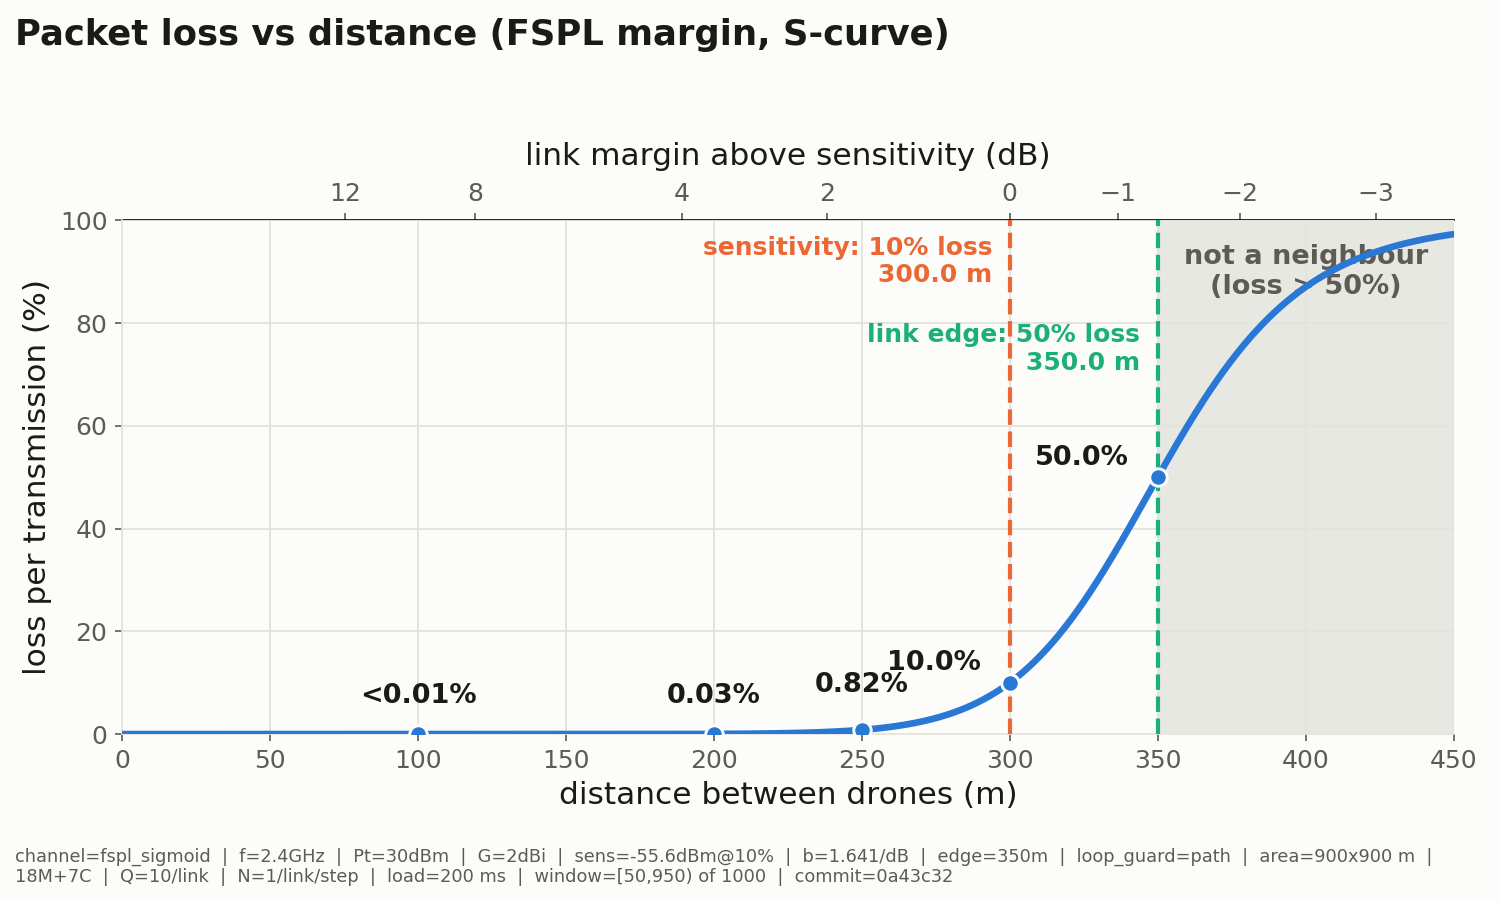
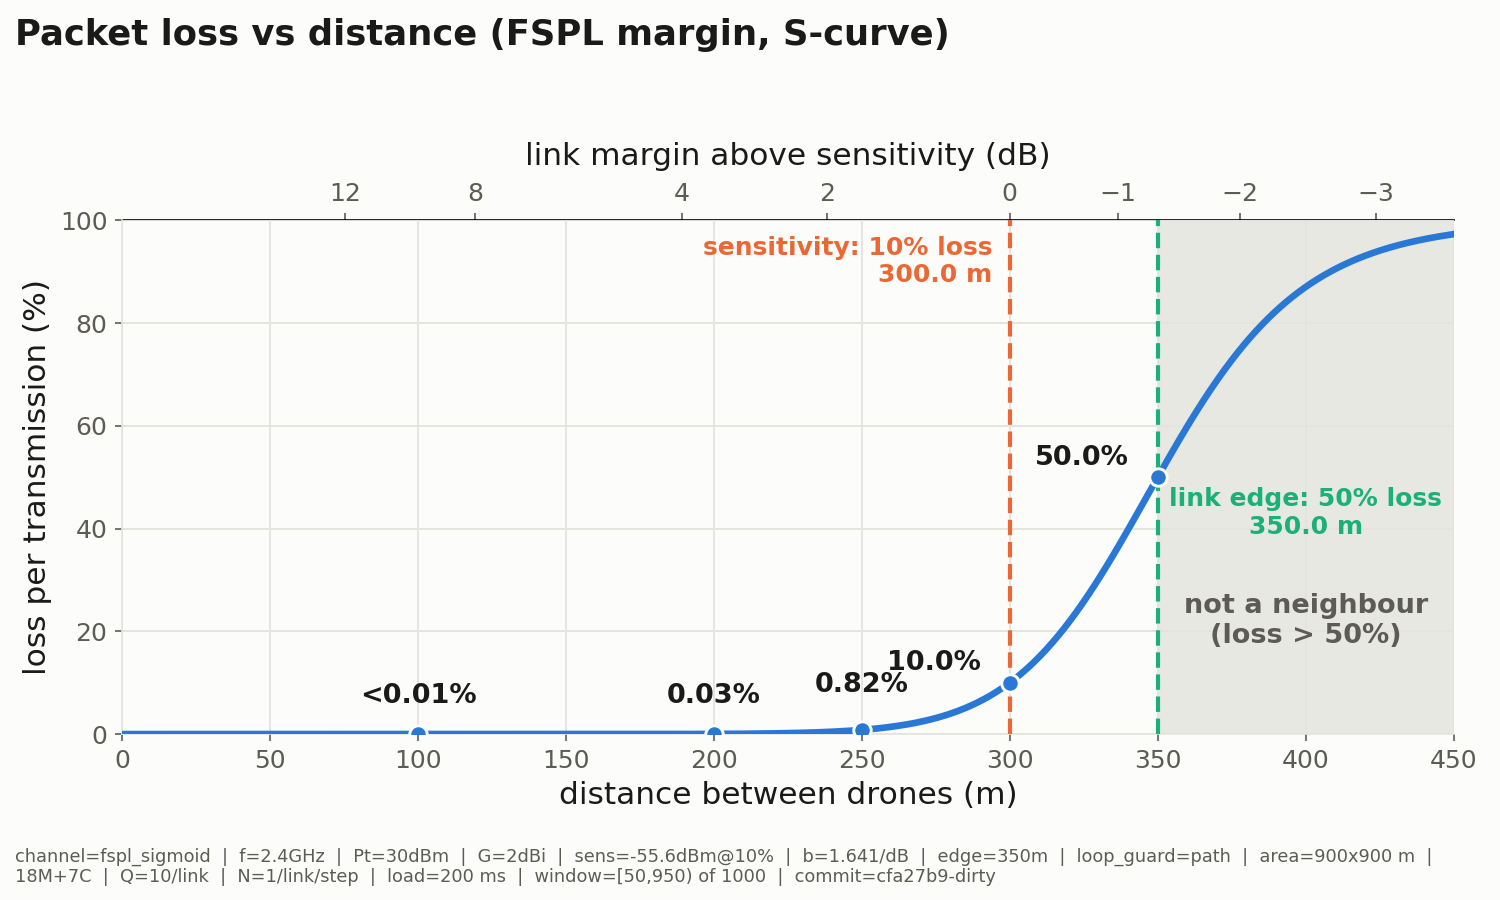
rate: a full link is chosen only when every link is full; figure fixes
The bug: rate scored each option as delivery_rate * (1 - queue_full), so a
FULL link and a link whose measured delivery rate happens to be 0 both scored
zero, and the channel-loss tie-break could then hand the packet to the full
link — which drops it on enqueue. Ranking is now (queue_full, -delivery_rate,
channel_loss): queue room is its own key and comes first, so a full link is
taken only when there is nothing else, and the old order applies within each
group. A test pins it, and the ranking it replaces fails that test.

Figures:
- 1b_learning_curve.png drew all three init-seed BCE lines in one colour,
  which made the panel useless. One hue per seed, from the SEED_COLORS the
  other figure already used.
- 1b_learning_curve_seeds.png hid kept-model stars: seeds 0 and 1 both saved
  at run 30 at nearly the same loss, so one star covered the other. Each
  seed's stars are nudged sideways by a fixed share of the evaluation
  spacing; the lines are not moved, and the legend says so.
- ploss_curve.png had the 300 m marker line running through the link-edge
  label and the curve running through it at the right-hand edge. The two
  marker labels now sit where nothing crosses them: the sensitivity label
  above its own line, the link-edge label inside the grey band above "not a
  neighbour", which moved down to the clear part of the band.

A3 (scripts/example_layout.py) is NOT done: no script was attached to the
[…]

diff --git a/rl_sim/scripts/plot_1b.py b/rl_sim/scripts/plot_1b.py
@@ -242,7 +242,10 @@ def plot_learning_curve(log: Dict[str, Any], path: str) -> None:
     for seed in sorted(train):
         runs = [index for index, _, bce in train[seed] if bce is not None]
         values = [bce for _, _, bce in train[seed] if bce is not None]
-        bottom.plot(runs, values, color=RL_COLOR, linewidth=1.2, alpha=0.9,
+        # One hue per seed: drawn in a single colour these three lines were
+        # indistinguishable, which is the opposite of the panel's point.
+        bottom.plot(runs, values, color=SEED_COLORS.get(seed, RL_COLOR),
+                    linewidth=1.2, alpha=0.9,
                     label=f"init seed {seed}" if len(seeds) > 1 else None)
     bottom.set_xlabel("Training runs", color=TEXT_SECONDARY, fontsize=11)
     bottom.set_ylabel("Training loss (BCE)", color=TEXT_SECONDARY, fontsize=11)
@@ -387,13 +390,20 @@ def plot_learning_curve_seeds(log: Dict[str, Any],
             if not saved:
                 continue
             index = {run: position for position, run in enumerate(runs)}
-            ax.scatter([r for r in saved], [means[index[r]] for r in saved],
+            # Seeds often save at the SAME evaluation — two of them did at
+            # run 30 — and at nearly the same loss, so a star drawn exactly
+            # on the point hides the one beneath it. Each seed's stars are
+            # nudged sideways by a fixed share of the evaluation spacing, so
+            # every one stays visible. The lines themselves are not moved.
+            offset = (seeds.index(seed) - (len(seeds) - 1) / 2.0) * 1.8
+            ax.scatter([r + offset for r in saved],
+                       [means[index[r]] for r in saved],
                        marker="*", s=150, color=color, zorder=5,
                        edgecolors=SURFACE, linewidths=0.6)
             # The last save is the model actually kept.
             final = saved[-1]
-            ax.scatter([final], [means[index[final]]], marker="*", s=420,
-                       color=color, zorder=6, edgecolors=SURFACE,
+            ax.scatter([final + offset], [means[index[final]]], marker="*",
+                       s=420, color=color, zorder=6, edgecolors=SURFACE,
                        linewidths=1.0)
 
         if name == "validation":
@@ -423,7 +433,8 @@ def plot_learning_curve_seeds(log: Dict[str, Any],
                    loc="upper left", ncol=len(seeds),
                    bbox_to_anchor=(0.0, 0.80))
     axes[0].annotate(
-        "★ a new best model was saved;  the large ★ is the model kept",
+        "★ a new best model was saved;  the large ★ is the model kept"
+        "  (nudged sideways so none hides another)",
         (0.005, 0.66), xycoords="axes fraction", color=TEXT_SECONDARY,
         fontsize=8.5,
     )

diff --git a/rl_sim/scripts/plot_ploss.py b/rl_sim/scripts/plot_ploss.py
@@ -134,27 +134,31 @@ def plot(out_path: str, stamp: bool = True) -> str:
 
     # Past the edge there is no link, so that part of the curve is never used.
     ax.axvspan(edge, X_MAX_M, color=GRID_COLOR, alpha=0.8, zorder=1)
-    # High in the shaded band, where the curve has not reached yet: at
-    # y = 50 the label would sit on the curve and on the 350 m marker.
+    # LOW in the shaded band. The curve climbs through this band to 84% by
+    # 450 m, so the top of it is where the curve is; underneath is clear, and
+    # the top is now wanted for the link-edge label.
     ax.annotate(f"not a neighbour\n(loss > {config.LINK_MAX_LOSS:.0%})",
-                ((edge + X_MAX_M) / 2.0, 90.0), ha="center", va="center",
+                ((edge + X_MAX_M) / 2.0, 22.0), ha="center", va="center",
                 color=TEXT_SECONDARY, fontsize=13, fontweight="bold",
                 zorder=2)
 
     ax.plot(distances, losses, color=CURVE_COLOR, linewidth=3.2, zorder=5)
 
-    # Stacked, not side by side: the two marks are only 50 m apart now, so
-    # labels on one line would print over each other.
-    for dist, label, colour, top in (
+    # Back to back along the top, each on its OWN side of its marker: the two
+    # marks are only 50 m apart, so stacking them put the 300 m line straight
+    # through the lower label. Nothing crosses the top strip on either side —
+    # left of 300 m the curve is still on the floor, and right of 350 m it
+    # has not climbed past 84%.
+    band_middle = (edge + X_MAX_M) / 2.0
+    for dist, label, colour, at, align in (
         (sensitivity, f"sensitivity: {config.SENS_LOSS:.0%} loss",
-         SENS_COLOR, 97.0),
+         SENS_COLOR, (sensitivity - 6.0, 97.0), "right"),
         (edge, f"link edge: {config.LINK_MAX_LOSS:.0%} loss",
-         EDGE_COLOR, 80.0),
+         EDGE_COLOR, (band_middle, 48.0), "center"),
     ):
         ax.axvline(dist, color=colour, linestyle="--", linewidth=2.0, zorder=4)
-        ax.annotate(f"{label}\n{dist:.1f} m", (dist - 6, top), ha="right",
-                    va="top", color=colour, fontsize=12, fontweight="bold",
-                    zorder=6)
+        ax.annotate(f"{label}\n{dist:.1f} m", at, ha=align, va="top",
+                    color=colour, fontsize=12, fontweight="bold", zorder=6)
 
     # Where each label goes, per point: below the axis is not an option for
     # the flat part of the curve, where the label would land on the x-axis

diff --git a/rl_sim/tests/test_1b_routing.py b/rl_sim/tests/test_1b_routing.py
@@ -329,6 +329,38 @@ def test_rate_takes_the_highest_delivery_rate_with_room() -> None:
     assert router._choose(drone, keys, rows) == keys[1]
 
 
+def test_rate_prefers_a_link_with_room_over_a_full_one() -> None:
+    """Queue room beats everything, even a delivery rate of zero.
+
+    The bug this pins: scoring a link as ``delivery_rate * (1 - queue_full)``
+    gave a full link and a link with a measured delivery rate of 0 the same
+    score, and the channel-loss tie-break could then pick the FULL link,
+    which drops the packet on enqueue.
+    """
+    from agents.rate_router import RateRouter
+
+    router = RateRouter(run_seed=0)
+    env = FANETEnv(routing="rate", log_path=os.devnull,
+                   placement_seed=2, run_seed=2, router=router)
+    env.reset()
+    drone = next(d for d in env.drones if len(d.neighbors) >= 2)
+    keys = sorted(drone.neighbors)[:2]
+
+    # Link 0 has room but has never delivered; link 1 is full and cleaner.
+    rows = [(0.0, 0.0, 0.40), (0.9, 1.0, 0.01)]
+    while not drone.queue_is_full(keys[1]):
+        drone.link_queues[keys[1]].append(object())
+
+    assert not drone.queue_is_full(keys[0])
+    assert router._choose(drone, keys, rows) == keys[0]
+
+    # Only when BOTH are full may a full link be chosen; then the normal
+    # order applies and the better delivery rate wins.
+    while not drone.queue_is_full(keys[0]):
+        drone.link_queues[keys[0]].append(object())
+    assert router._choose(drone, keys, rows) == keys[1]
+
+
 def test_rate_breaks_ties_on_channel_loss() -> None:
     """Equal delivery rates: the cleaner link wins."""
     from agents.rate_router import RateRouter

diff --git a/rl_sim/agents/rate_router.py b/rl_sim/agents/rate_router.py
@@ -273,11 +273,18 @@ class RateRouter(BaseRouter):
         Returns:
             The chosen key.
         """
-        def rank(index: int) -> Tuple[float, float]:
-            """Higher score first; ties go to the lower channel loss."""
+        def rank(index: int) -> Tuple[float, float, float]:
+            """A link with room first, then the best rate, then the cleaner link.
+
+            Queue room comes FIRST, as its own key. Scoring it as
+            ``delivery_rate * (1 - queue_full)`` instead put a full link and
+            a link whose measured delivery rate happens to be 0 on the same
+            score of zero, and the channel-loss tie-break could then hand the
+            packet to the full link, which drops it on enqueue. A full link
+            is now taken only when every option is full.
+            """
             delivery_rate, _, channel_loss = feature_rows[index]
             queue_full = 1.0 if drone.queue_is_full(keys[index]) else 0.0
-            score = delivery_rate * (1.0 - queue_full)
-            return (-score, channel_loss)
+            return (queue_full, -delivery_rate, channel_loss)
 
         return keys[min(range(len(keys)), key=rank)]
